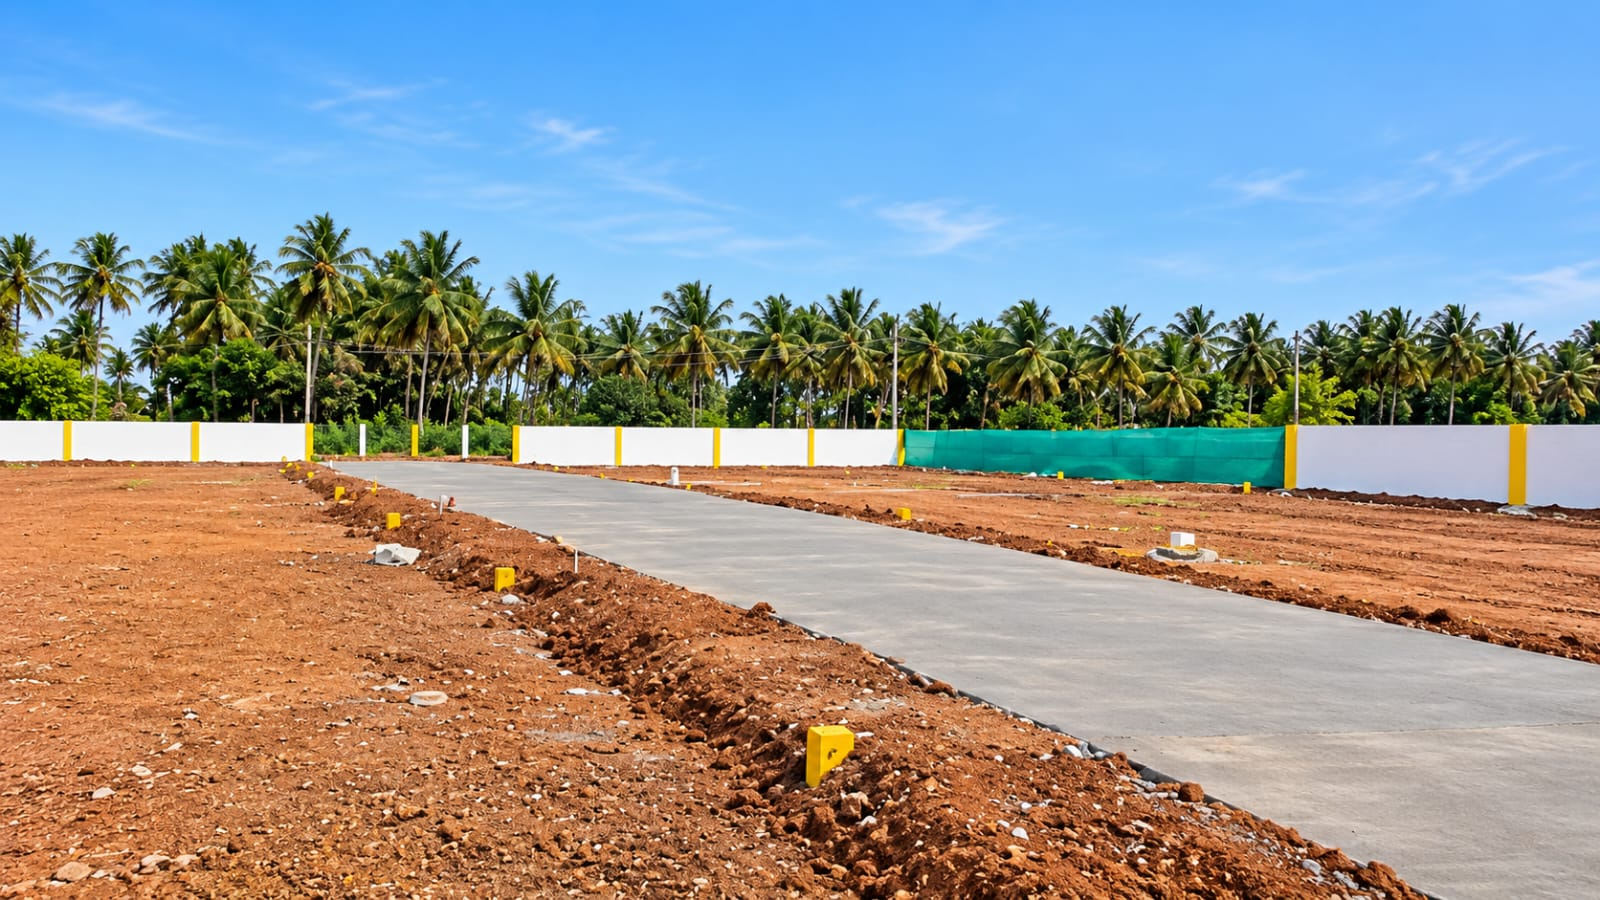
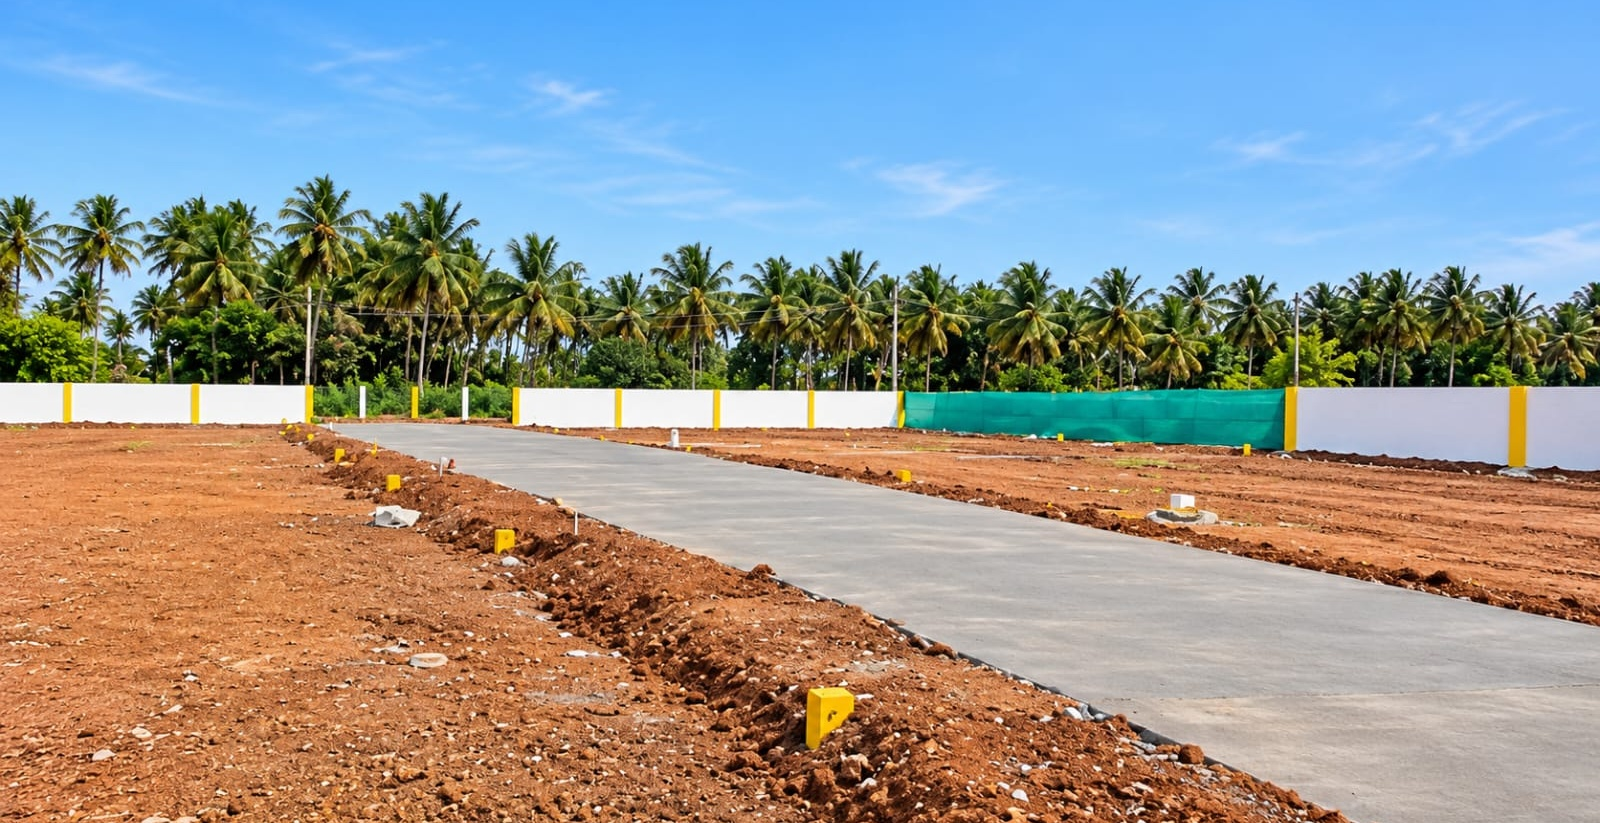
Add files via upload

diff --git a/index.html b/index.html
@@ -40,7 +40,14 @@ section{padding:72px 0}.section-head{display:flex;justify-content:space-between;
 input,select,textarea{width:100%;padding:13px;margin:7px 0 13px;border:1px solid #ddd;border-radius:9px;font:inherit}textarea{min-height:100px}
 footer{padding:25px 0;background:#111;color:#aaa;font-size:13px}.mobile-menu{display:none}
 @media(max-width:850px){.hero-grid,.project,.contactgrid{grid-template-columns:1fr}.cards{grid-template-columns:1fr}.navlinks{display:none}.mobile-menu{display:block}.hero{padding:52px 0}h1{font-size:45px}section{padding:55px 0}}
-.hero-card.hero-photo{padding:0;min-height:430px;background:#111}.hero-photo>img{width:100%;height:430px;object-fit:cover;display:block}.hero-overlay{position:absolute;inset:0;padding:28px;display:flex;flex-direction:column;justify-content:flex-end;background:linear-gradient(180deg,rgba(0,0,0,.05) 20%,rgba(0,0,0,.78) 100%)}.hero-overlay h2{font-size:34px;position:relative;margin:0 0 10px}.hero-overlay p{color:#eee;position:relative;line-height:1.6;margin:0 0 12px}.hero-overlay .price{position:relative;left:auto;right:auto;bottom:auto}.gallery{display:grid;grid-template-columns:1fr 1fr;gap:18px;margin-top:30px}.gallery figure{margin:0;border-radius:20px;overflow:hidden;border:1px solid var(--line);background:#fff;box-shadow:0 12px 35px rgba(0,0,0,.08)}.gallery img{width:100%;height:330px;object-fit:cover;display:block}.gallery figcaption{padding:14px 16px;font-weight:800}@media(max-width:850px){.gallery{grid-template-columns:1fr}.gallery img{height:250px}.logo{height:68px;width:205px;max-width:205px;object-fit:contain;object-position:left center;background:transparent;padding:0;border-radius:0;display:block}}</style>
+.hero-card.hero-photo{padding:0;min-height:430px;background:#111}.hero-photo>img{width:100%;height:430px;object-fit:cover;display:block}.hero-overlay{position:absolute;inset:0;padding:28px;display:flex;flex-direction:column;justify-content:flex-end;background:linear-gradient(180deg,rgba(0,0,0,.05) 20%,rgba(0,0,0,.78) 100%)}.hero-overlay h2{font-size:34px;position:relative;margin:0 0 10px}.hero-overlay p{color:#eee;position:relative;line-height:1.6;margin:0 0 12px}.hero-overlay .price{position:relative;left:auto;right:auto;bottom:auto}.gallery{display:grid;grid-template-columns:1fr 1fr;gap:18px;margin-top:30px}.gallery figure{margin:0;border-radius:20px;overflow:hidden;border:1px solid var(--line);background:#fff;box-shadow:0 12px 35px rgba(0,0,0,.08);width:100%;min-width:0}.gallery img{width:100%;height:330px;aspect-ratio:680/330;object-fit:cover;object-position:center;display:block}.gallery figcaption{padding:14px 16px;font-weight:800}@media(max-width:850px){.gallery{grid-template-columns:1fr}.gallery img{height:250px;width:100%;aspect-ratio:350/250;object-fit:cover;object-position:center;display:block}.logo{height:68px;width:205px;max-width:205px;object-fit:contain;object-position:left center;background:transparent;padding:0;border-radius:0;display:block}}
+.villa-showcase{background:#fff8f1}
+.villa-card{position:relative;border-radius:26px;overflow:hidden;background:#fff;box-shadow:0 18px 55px rgba(0,0,0,.12);border:1px solid #f0e4dc}
+.villa-card img{display:block;width:100%;height:520px;object-fit:cover}
+.villa-caption{position:absolute;left:24px;right:24px;bottom:24px;padding:18px 20px;border-radius:16px;background:rgba(20,20,20,.78);backdrop-filter:blur(8px);color:#fff;display:flex;justify-content:space-between;gap:15px;align-items:center}
+.villa-caption strong{font-size:22px}.villa-caption span{font-weight:800;color:#ffd0ad}
+@media(max-width:850px){.villa-card img{height:300px}.villa-caption{left:14px;right:14px;bottom:14px;padding:13px 15px;display:block}.villa-caption strong{font-size:17px;display:block;margin-bottom:4px}.villa-caption span{font-size:13px}}
+</style>
 </head>
 <body>
 <!-- Clean logo header; no decorative text is overlaid on project images. -->
@@ -64,6 +71,25 @@ footer{padding:25px 0;background:#111;color:#aaa;font-size:13px}.mobile-menu{dis
 <div class="project-info"><div class="statgrid"><div class="stat"><strong>2–4 Cents</strong><small>Plot sizes</small></div><div class="stat"><strong>₹8.90L</strong><small>Per cent</small></div><div class="stat"><strong>₹39L+</strong><small>1 BHK villa</small></div><div class="stat"><strong>₹46L+</strong><small>2 BHK villa</small></div></div>
 <h3>Bank Loan Facility</h3><p>Land – up to 70% | Villas – up to 85%</p><h3>Premium Facilities</h3>
 <ul class="list"><li>30 & 33 Feet Tar Road</li><li>Compound Wall</li><li>24/7 Water Connection</li><li>EB Connection</li><li>Street Light</li><li>Tree Plantation</li><li>Drainage System</li><li>Nearby Sulur Aerodrome</li></ul></div></div></div><div class="gallery"><figure><img src="vetri-nagar-site-1.jpeg" alt="Vetri Nagar site road and plots" loading="lazy"><figcaption>Vetri Nagar — Site Road & Plots</figcaption></figure><figure><img src="vetri-nagar-site-2.jpeg" alt="Vetri Nagar premium villa" loading="lazy"><figcaption>Premium Customised Villa</figcaption></figure></div></div></section>
+
+<section id="villa-2bhk" class="villa-showcase">
+<div class="wrap">
+  <div class="section-head">
+    <div>
+      <div class="eyebrow">Premium Customised Villa</div>
+      <h2>2 BHK Villa</h2>
+    </div>
+    <p>Modern 2 BHK villa concept designed to complement the premium character of Vetri Nagar.</p>
+  </div>
+  <div class="villa-card">
+    <img src="2bhk-villa.png" alt="Premium customised 2 BHK villa at Vetri Nagar" loading="lazy">
+    <div class="villa-caption">
+      <strong>2 BHK Premium Villa</strong>
+      <span>Starting from ₹46 Lakhs</span>
+    </div>
+  </div>
+</div>
+</section>
 
 <section id="why"><div class="wrap"><div class="section-head"><div><div class="eyebrow">Project advantages</div><h2>Designed for everyday convenience</h2></div></div>
 <div class="cards"><div class="card"><h3>🏫 Education</h3><p>Kendra Vidyalaya, Nava Bharathi School, Infant Jesus Matric. School, Young Indian Public School, Park Engineering College, Tamil Nadu College of Engineering and RVS College.</p></div>
